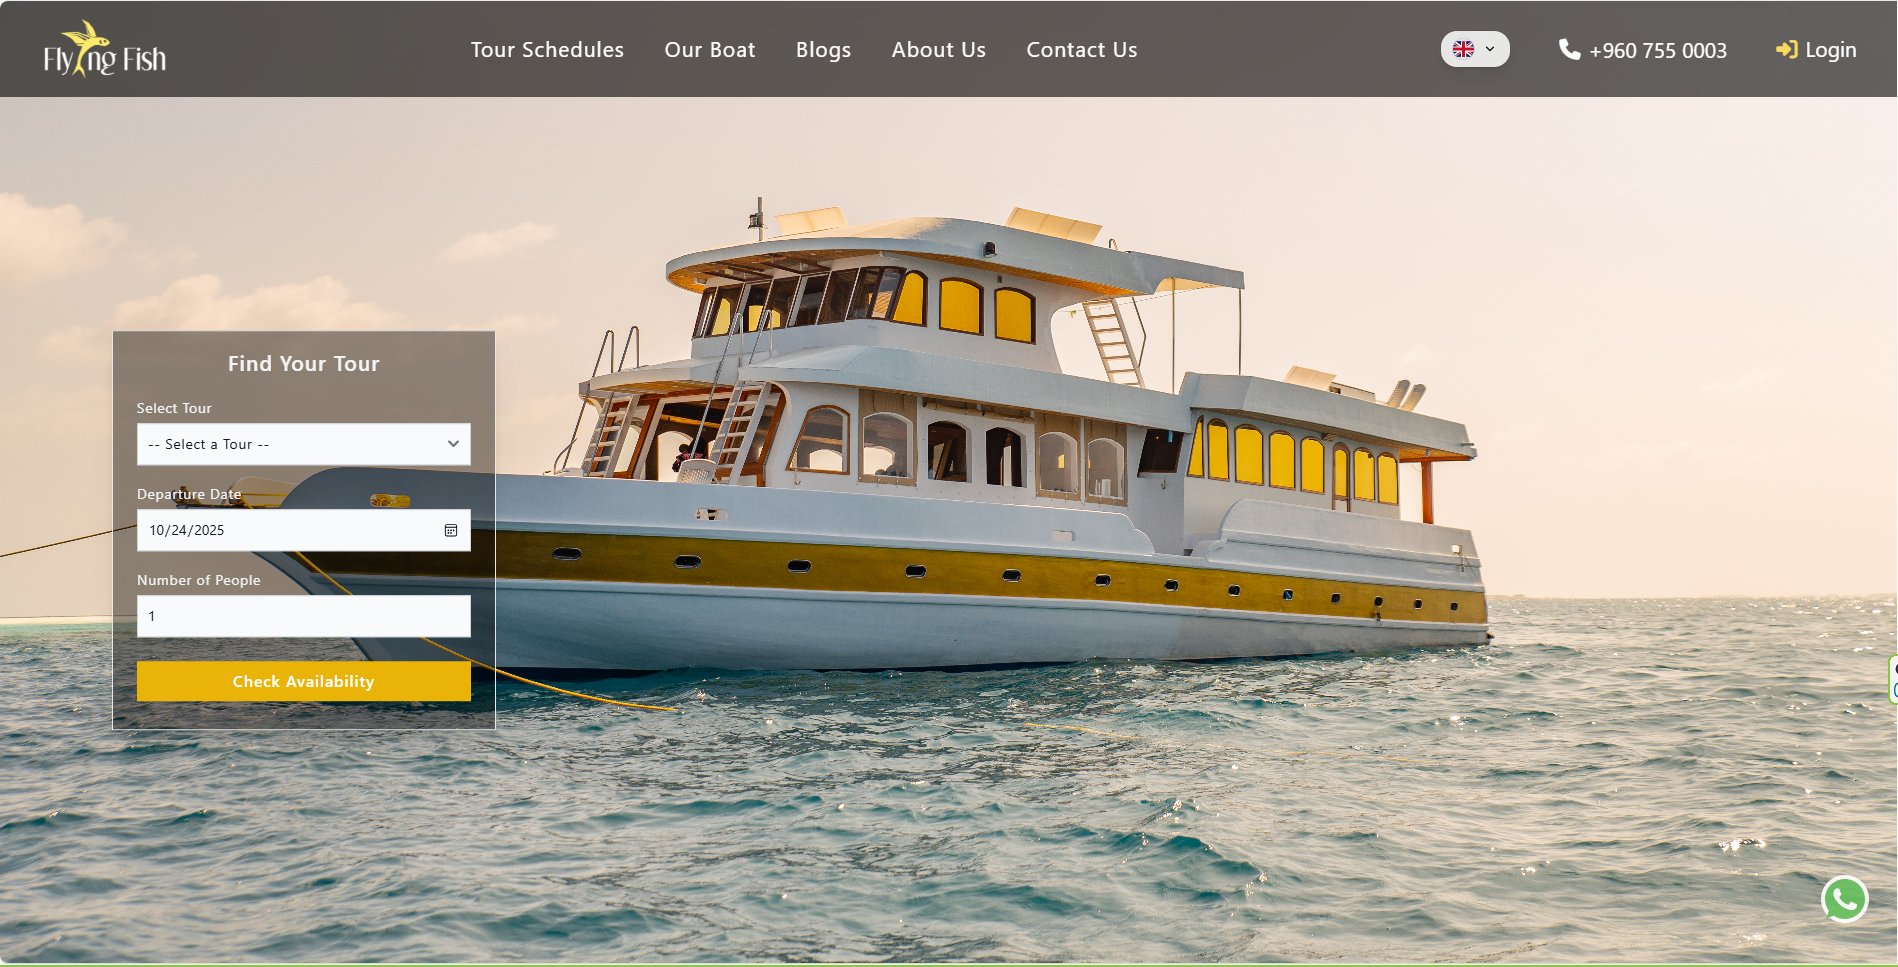
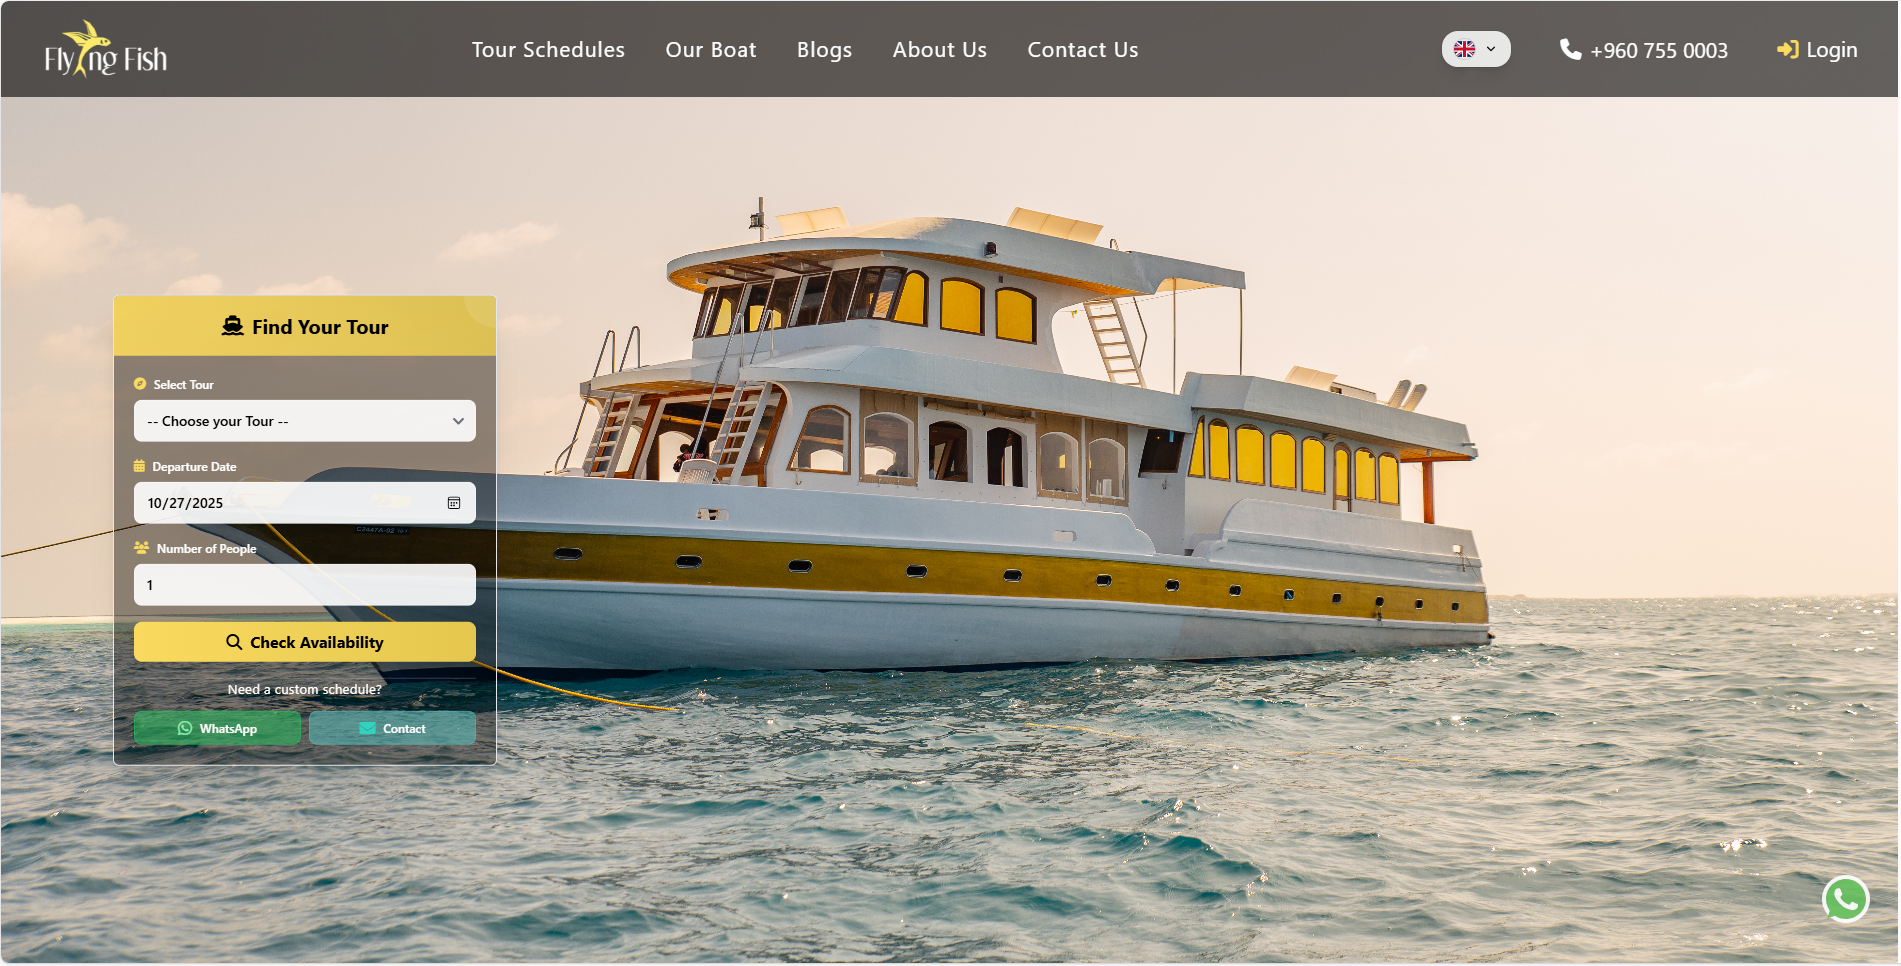
updated

diff --git a/src/App.vue b/src/App.vue
@@ -28,6 +28,12 @@
         <h1 class="mb-8 text-5xl font-bold leading-tight text-white md:text-7xl drop-shadow-lg">
           Web Development Portfolio
         </h1>
+        
+        <p class="max-w-3xl mx-auto text-lg leading-relaxed text-white/90 md:text-[20px] 2xl:text-xl drop-shadow">
+          Crafting modern, responsive, and user-friendly web applications with cutting-edge technologies.
+          Transforming ideas into seamless digital experiences that drive results.
+          Let's build something exceptional together.
+        </p>
 
       </div>
 
@@ -236,6 +242,15 @@
     </div>
   </footer>
 
+  <!-- whatsapp icon -->
+  <a href="https://wa.me/94701728259" target="_blank" rel="noopener noreferrer"
+    class="fixed bottom-7 right-6 bg-[#25D366] text-white p-3 rounded-full shadow-lg hover:bg-[#20BA5A] transition-all duration-300 hover:scale-110 z-50"
+    aria-label="Chat on WhatsApp"
+  >
+    <svg class="w-6 h-6" fill="currentColor" viewBox="0 0 24 24">
+      <path d="M17.472 14.382c-.297-.149-1.758-.867-2.03-.967-.273-.099-.471-.148-.67.15-.197.297-.767.966-.94 1.164-.173.199-.347.223-.644.075-.297-.15-1.255-.463-2.39-1.475-.883-.788-1.48-1.761-1.653-2.059-.173-.297-.018-.458.13-.606.134-.133.298-.347.446-.52.149-.174.198-.298.298-.497.099-.198.05-.371-.025-.52-.075-.149-.669-1.612-.916-2.207-.242-.579-.487-.5-.669-.51-.173-.008-.371-.01-.57-.01-.198 0-.52.074-.792.372-.272.297-1.04 1.016-1.04 2.479 0 1.462 1.065 2.875 1.213 3.074.149.198 2.096 3.2 5.077 4.487.709.306 1.262.489 1.694.625.712.227 1.36.195 1.871.118.571-.085 1.758-.719 2.006-1.413.248-.694.248-1.289.173-1.413-.074-.124-.272-.198-.57-.347m-5.421 7.403h-.004a9.87 9.87 0 01-5.031-1.378l-.361-.214-3.741.982.998-3.648-.235-.374a9.86 9.86 0 01-1.51-5.26c.001-5.45 4.436-9.884 9.888-9.884 2.64 0 5.122 1.03 6.988 2.898a9.825 9.825 0 012.893 6.994c-.003 5.45-4.437 9.884-9.885 9.884m8.413-18.297A11.815 11.815 0 0012.05 0C5.495 0 .16 5.335.157 11.892c0 2.096.547 4.142 1.588 5.945L.057 24l6.305-1.654a11.882 11.882 0 005.683 1.448h.005c6.554 0 11.89-5.335 11.893-11.893a11.821 11.821 0 00-3.48-8.413Z"/>
+    </svg>
+  </a>
 </template>
 
 <script setup>
